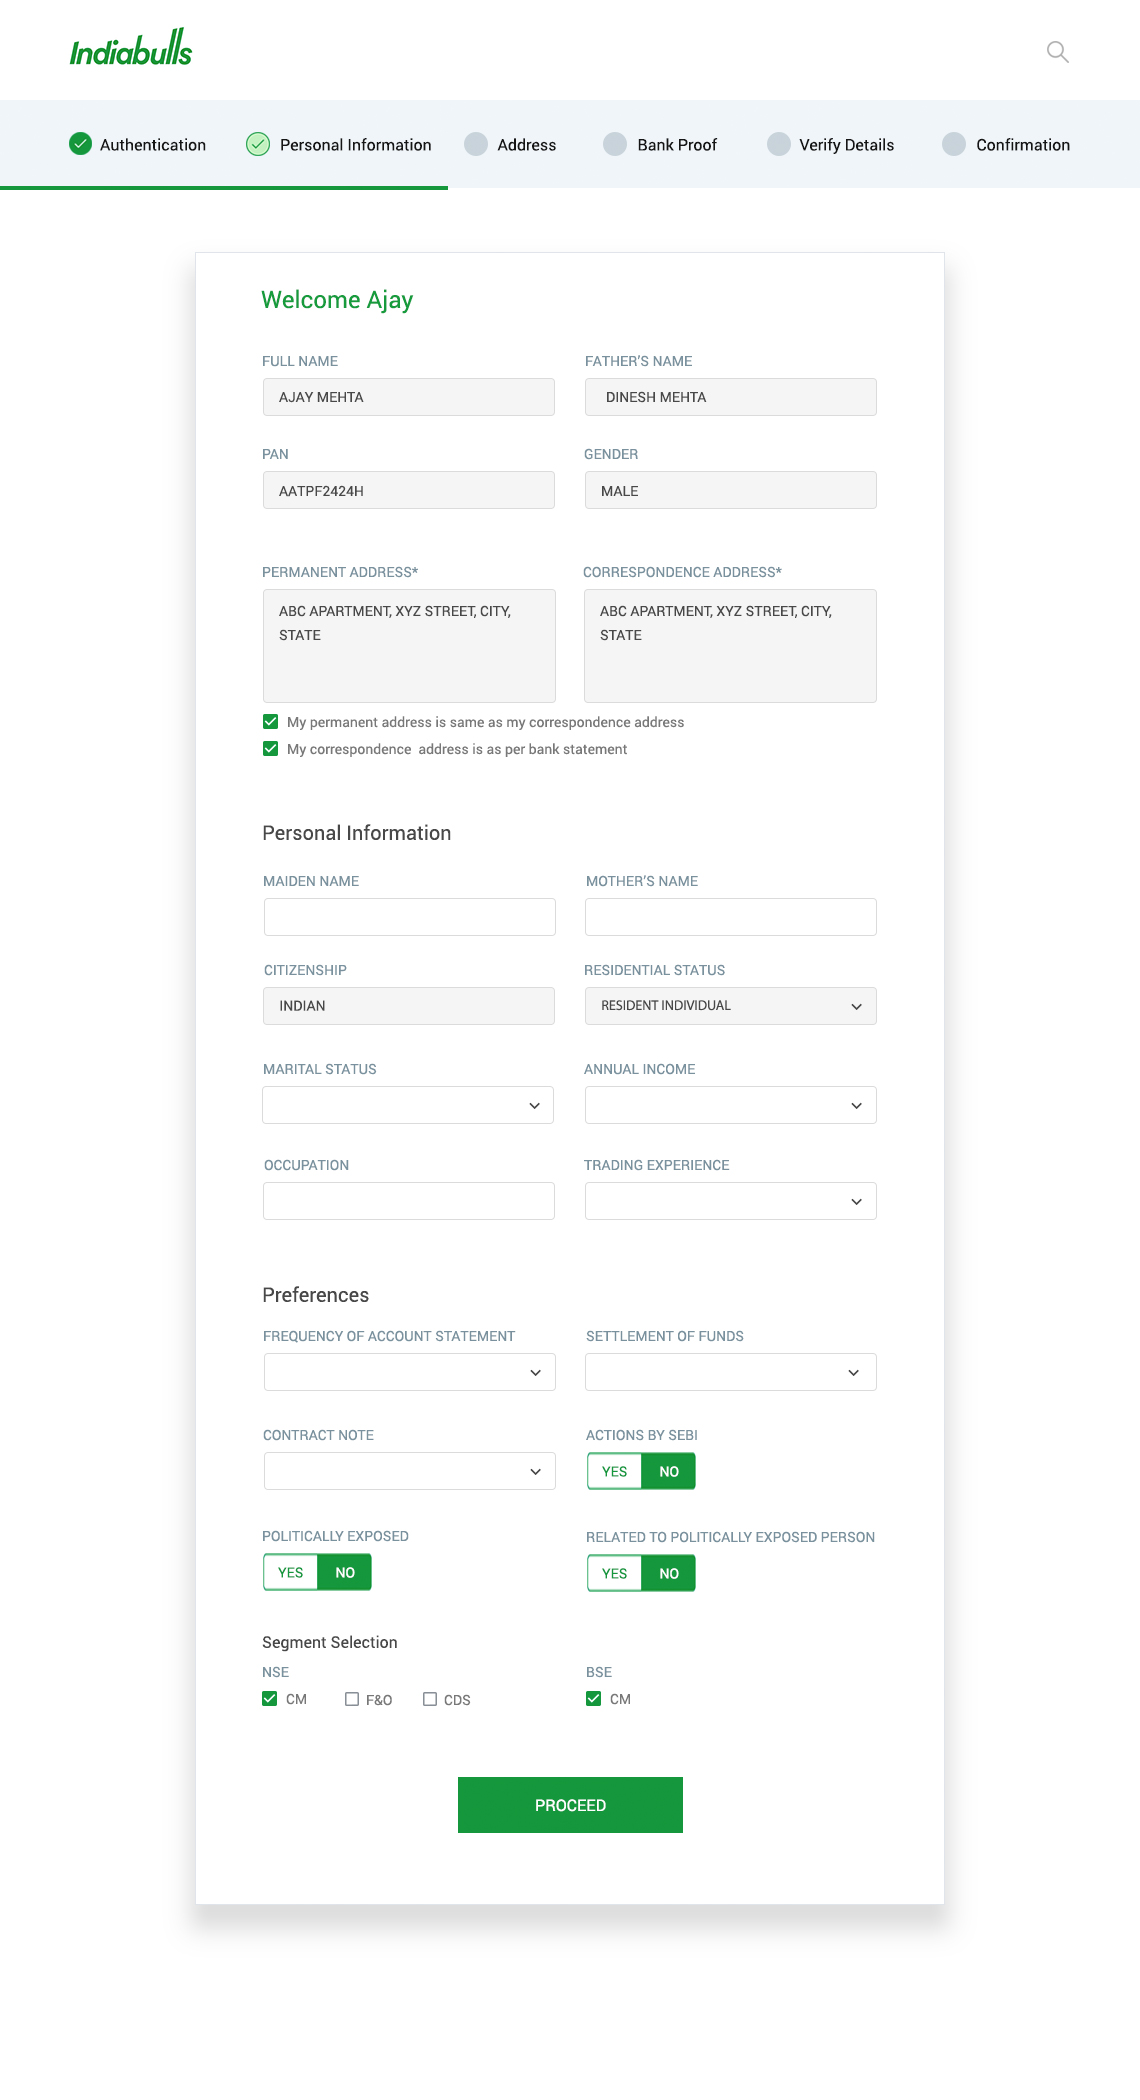
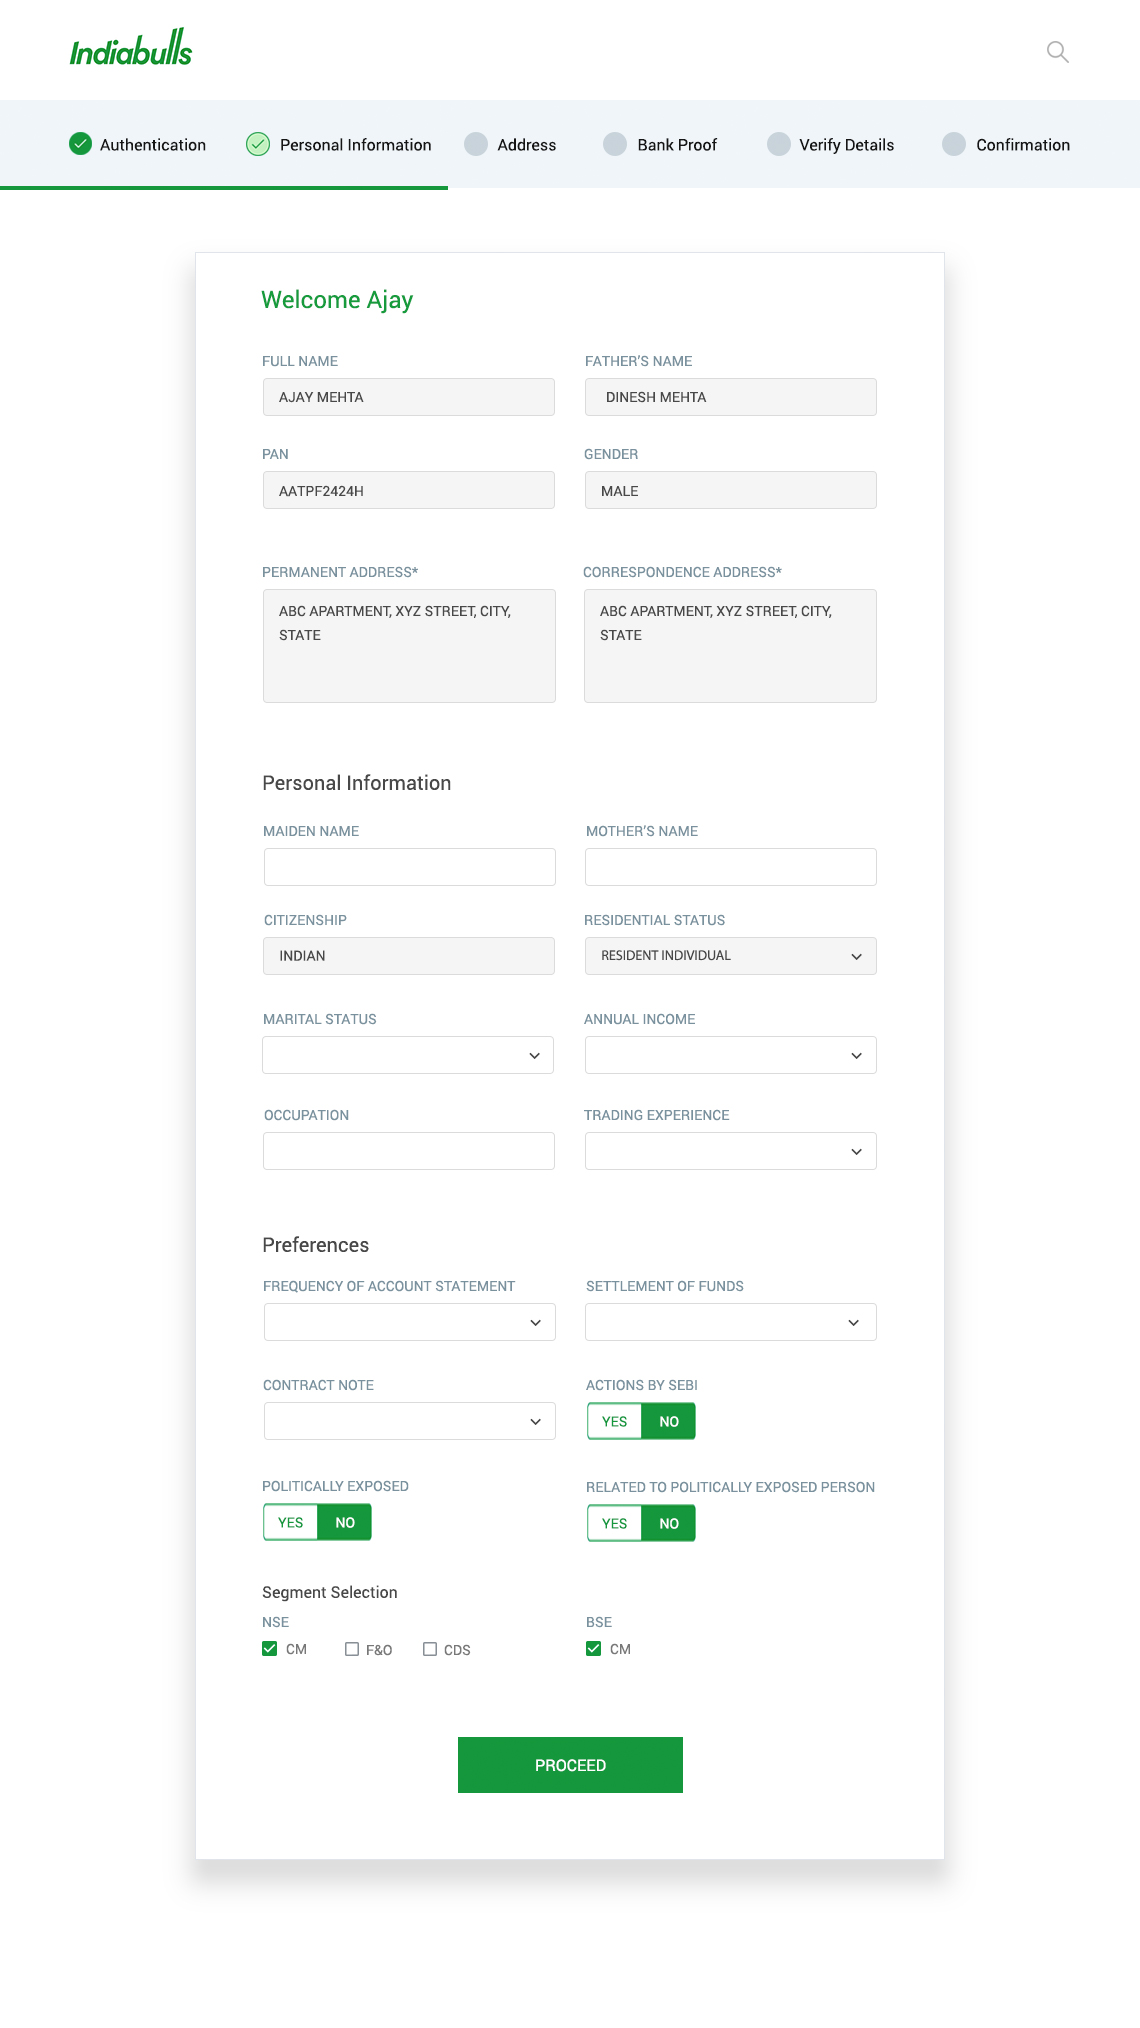
v2.0.8

diff --git a/IVL_multistage_form/v3/2.html b/IVL_multistage_form/v3/2.html
@@ -22,8 +22,7 @@
 <img src="images/2.jpg" alt="" usemap="#Map">
 <map name="Map">
   <area shape="rect" coords="55,114,245,190" href="1.html">
-  <area shape="rect" coords="471,1855,734,1942" href="3.html">
-  <area shape="rect" coords="272,778,675,807" href="2_1.html">
+  <area shape="rect" coords="471,1813,734,1900" href="3.html">
 </map>
 </div>
 

diff --git a/IVL_multistage_form/v3/5.html b/IVL_multistage_form/v3/5.html
@@ -25,7 +25,7 @@
   <area shape="rect" coords="250,114,464,187" href="2.html">
   <area shape="rect" coords="473,113,606,188" href="3.html">
   <area shape="rect" coords="629,113,772,188" href="4.html">
-  <area shape="rect" coords="467,2203,728,2291" href="5a.html">
+  <area shape="rect" coords="473,2164,734,2252" href="5a.html">
 </map>
 </div>
 
